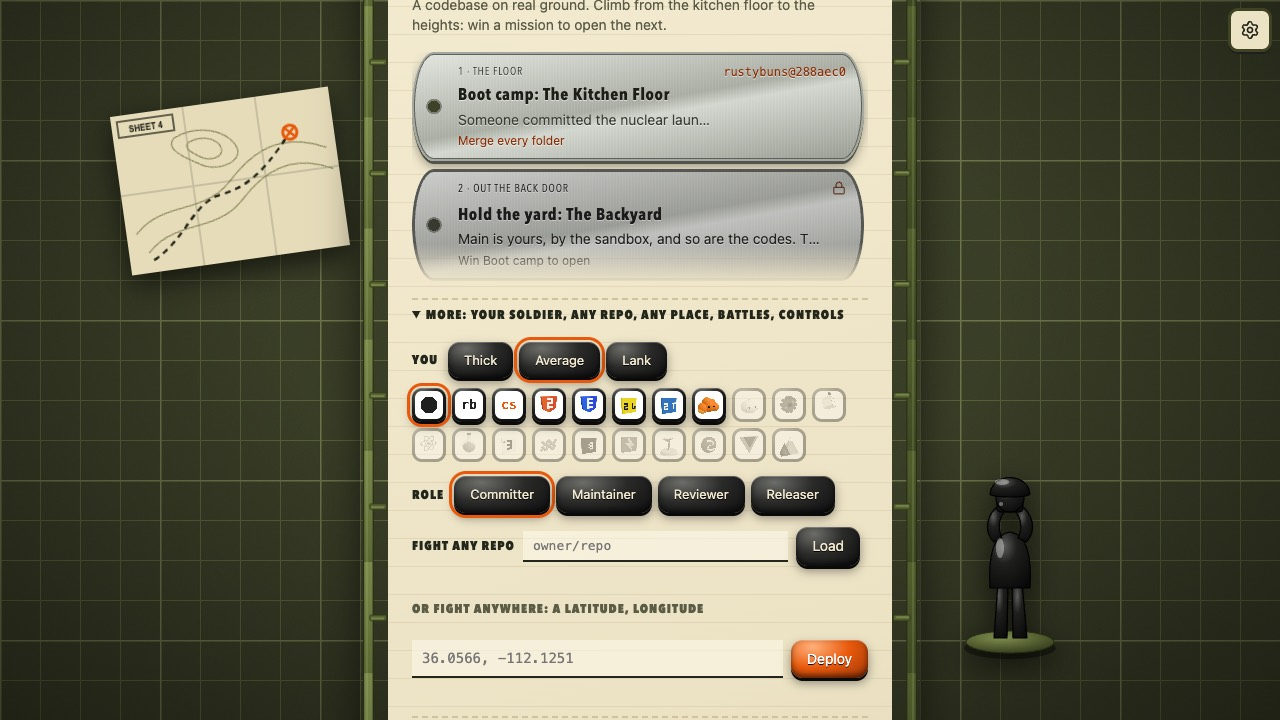
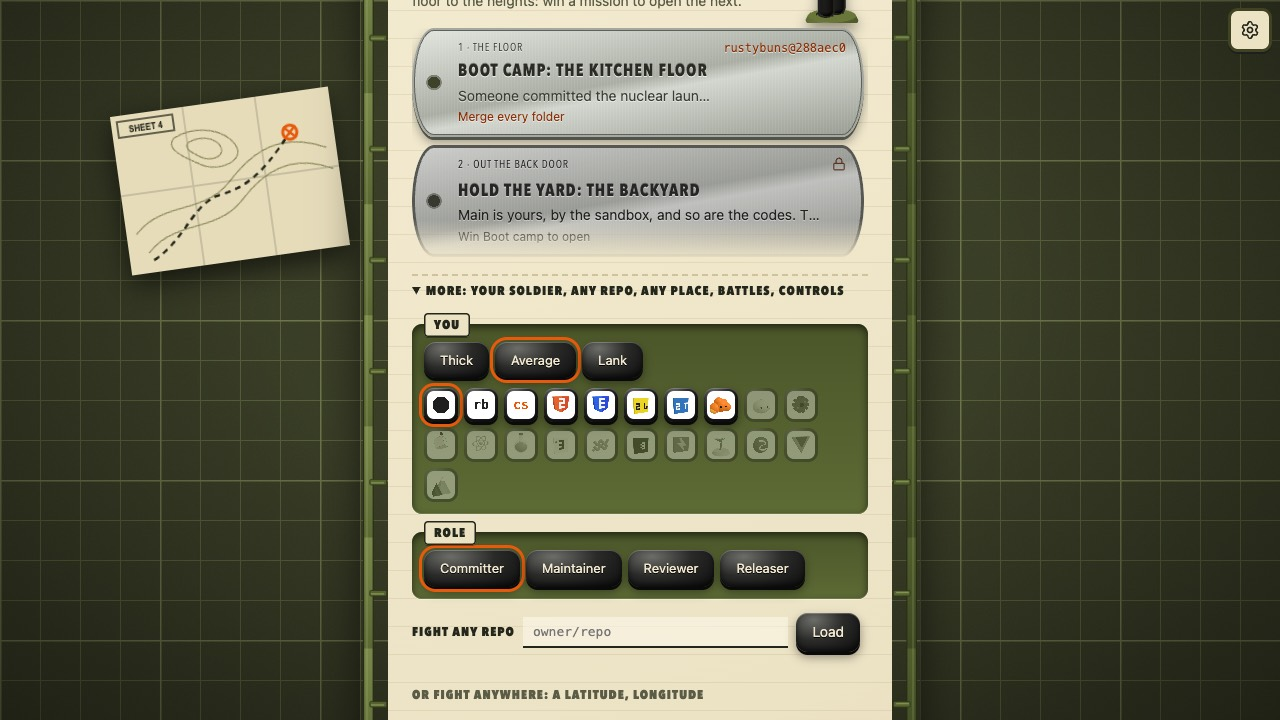
Git Recon: your own clay soldier on the menu at every size, embossed dog tags, the loadout as a parts tray (menus round 3)
- src/ui/portrait.ts: the menu stands your soldier in the page's corner, built by the game's own figure.ts in your
  build and head, on a moulded olive base, turning slowly. It renders only while the menu shows and redraws when you
  pick a build or head. It replaces the drawn SVG figure (soldier.svg is gone), and it shows on phone and tablet too.
- Dog-tag names are stamped capitals, pressed into the steel.
- The loadout rows are recessed olive bins in a parts tray, each with a stamped label tab.
- Shots: r2-* is round 2's result, now-* is this round.

Part of #3560

Changed region(s): [[0.3125, 0.0, 0.6875, 0.9778], [0.75, 0.6417, 0.8438, 0.9167]]

diff --git a/apps/git-recon/src/ui/portrait.ts b/apps/git-recon/src/ui/portrait.ts
@@ -1,0 +1,65 @@
+// Your soldier on the menu: the same clay figure the battlefield draws (figure.ts, through a one-figure Crowd), in
+// your build and head, standing on a moulded olive base and turning slowly, like a toy on the box's window. It only
+// renders while the menu shows, and redraws when you pick another build or head.
+import * as THREE from "three";
+import { buildFigure, createCrowd, pose, setHead, type BuildId, type Figure } from "./figure.ts";
+import { buildHead, type HeadDef } from "./heads.ts";
+
+const INK = 0x1f1f1f, GLOSS = 0.22, TURN = 0.45; // rad/s
+
+export function mountPortrait(canvas: HTMLCanvasElement, showing: () => boolean) {
+  const r = new THREE.WebGLRenderer({ canvas, antialias: true, alpha: true });
+  r.setPixelRatio(Math.min(2, devicePixelRatio || 1));
+  const scene = new THREE.Scene();
+  scene.add(new THREE.HemisphereLight(0xfff6dc, 0x3d4229, 1.6));
+  const key = new THREE.DirectionalLight(0xffffff, 2.4);
+  key.position.set(-2, 4, 3);
+  scene.add(key);
+  const rim = new THREE.DirectionalLight(0xd9e6a8, 1.2);
+  rim.position.set(2, 2, -3);
+  scene.add(rim);
+  // The moulded base: a squat olive disc with a bevelled lip.
+  const base = new THREE.Mesh(new THREE.CylinderGeometry(0.42, 0.46, 0.08, 40), new THREE.MeshStandardMaterial({ color: 0x5d6b35, roughness: 0.45 }));
+  base.position.y = -0.04;
+  scene.add(base);
+  const cam = new THREE.PerspectiveCamera(26, 1, 0.1, 30);
+  cam.position.set(0, 1.25, 4.4);
+  cam.lookAt(0, 0.9, 0);
+  const crowd = createCrowd();
+  scene.add(crowd.root);
+  let fig: Figure | null = null, last = 0, raf = 0;
+
+  function size() {
+    const w = canvas.clientWidth, h = canvas.clientHeight;
+    if (!w || !h) return false;
+    if (canvas.width !== Math.round(w * r.getPixelRatio()) || canvas.height !== Math.round(h * r.getPixelRatio())) {
+      r.setSize(w, h, false);
+      cam.aspect = w / h;
+      cam.updateProjectionMatrix();
+    }
+    return true;
+  }
+  function frame(t: number) {
+    raf = requestAnimationFrame(frame);
+    if (!fig || !showing() || !size()) { last = t; return; }
+    const dt = Math.min(0.1, (t - (last || t)) / 1000);
+    last = t;
+    fig.root.rotation.y += dt * TURN;
+    pose(fig, { pose: "stand", speed: 0, dt, roll: 0, pitch: 0 });
+    crowd.update();
+    r.render(scene, cam);
+  }
+  return {
+    /** Stand this build, with this head, on the base. */
+    show(build: BuildId, head: HeadDef) {
+      const yaw = fig?.root.rotation.y ?? -0.5;
+      if (fig) scene.remove(fig.root), crowd.remove(fig);
+      fig = buildFigure(INK, GLOSS, build);
+      setHead(fig, buildHead(head, fig.root.userData.mat, fig.head.userData.size));
+      fig.root.rotation.y = yaw;
+      scene.add(fig.root);
+      crowd.add(fig);
+      if (!raf) raf = requestAnimationFrame(frame);
+    },
+  };
+}

diff --git a/apps/git-recon/src/ui/main.ts b/apps/git-recon/src/ui/main.ts
@@ -36,6 +36,7 @@ import { DEFAULTS, mountControls, volumeOf } from "@rustybuns/game-controls";
 import { addCommands } from "@rustybuns/util/commands";
 import { mountPalette } from "@rustybuns/util/palette";
 import { drawTally } from "./tally.ts";
+import { mountPortrait } from "./portrait.ts";
 
 const $ = <T extends HTMLElement = HTMLElement>(id: string) => document.getElementById(id) as T;
 const canvas = $<HTMLCanvasElement>("view");
@@ -216,13 +217,16 @@ function radios<T>(box: HTMLElement, items: T[], label: (t: T) => string, fill: 
   }
   draw();
 }
-radios($("builds"), Object.keys(BUILDS) as BuildId[], (id) => BUILDS[id].name, (b, id) => (b.textContent = BUILDS[id].name), (id) => id === me.build, (id) => (me.build = id, save("build", id)));
+/** Your soldier on the menu, in the build and head you've picked. */
+const portrait = mountPortrait($("portrait") as HTMLCanvasElement, () => !$("menu").hidden);
+portrait.show(me.build, me.head);
+radios($("builds"), Object.keys(BUILDS) as BuildId[], (id) => BUILDS[id].name, (b, id) => (b.textContent = BUILDS[id].name), (id) => id === me.build, (id) => (me.build = id, save("build", id), portrait.show(me.build, me.head)));
 /** The heads, toy ones greyed out until you've won enough levels; redrawn after a win. */
 function showHeads() {
   const box = $("heads");
   box.innerHTML = "";
   radios(box, HEADS, (h) => isOpen(h, wins.length) ? (h.nod ? `${h.name}: a nod to ${h.nod}` : h.name) : `Locked: win ${h.wins! - wins.length} more ${h.wins! - wins.length === 1 ? "level" : "levels"}`,
-    (b, h) => (b.append(headCanvas(h)), (b.disabled = !isOpen(h, wins.length))), (h) => h.id === me.head.id, (h) => (me.head = h, save("head", h.id)));
+    (b, h) => (b.append(headCanvas(h)), (b.disabled = !isOpen(h, wins.length))), (h) => h.id === me.head.id, (h) => (me.head = h, save("head", h.id), portrait.show(me.build, me.head)));
 }
 showHeads();
 

diff --git a/apps/git-recon/src/ui/styles.css b/apps/git-recon/src/ui/styles.css
@@ -395,3 +395,23 @@ html .ui-house {
      the menu would show the white play view behind it instead.) */
   .menu::before { content: ""; position: fixed; inset: 0 0 auto 0; height: 64px; z-index: 2; pointer-events: none; background: linear-gradient(#2b301c 55%, #2b301c00); }
 }
+
+/* Round 3 (#3560): your own soldier, rendered from the game's clay figure, stands in the page's corner at every
+   screen size (src/ui/portrait.ts); it replaces the drawn figure on the table. */
+.menu .portrait { position: absolute; top: 34px; right: 14px; width: 92px; height: 118px; filter: drop-shadow(0 6px 6px #0006); pointer-events: none; }
+.menu .kicker, .menu h1, .menu .lede { margin-right: 96px; }
+@media (min-width: 1000px) and (min-height: 560px) { .menu::after { display: none; } }
+@media (max-width: 560px) {
+  .menu .portrait { top: 4px; right: 6px; width: 58px; height: 76px; }
+  .menu h1 { margin-bottom: 18px; }
+  .menu .kicker, .menu h1 { margin-right: 60px; }
+  .menu h1 { font-size: 28px; gap: 8px; }
+  .menu h1::before { width: 28px; height: 28px; }
+}
+/* Dog-tag names are stamped into the steel: capitals, pressed in (a dark edge above, a light one below). */
+.menu .level b { text-transform: uppercase; letter-spacing: 0.06em; color: #2a2c24; text-shadow: 0 1px 0 #ffffffb0, 0 -1px 0 #00000059; }
+/* The loadout is a parts tray: each row a recessed bin moulded in olive plastic, its label a stamped tab. */
+.menu .more .look { position: relative; margin: 18px 0 14px; padding: 18px 12px 12px; border-radius: 10px;
+  background: linear-gradient(#4b5629, #5d6b35); box-shadow: inset 0 3px 8px #0009, inset 0 -1px 0 #a9ba7266, 0 1px 0 #fff6; }
+.menu .more .look .look-label { position: absolute; top: -11px; left: 12px; padding: 3px 10px; border-radius: 4px;
+  background: #ece2c4; color: var(--tb-ink); box-shadow: 0 1px 0 #0005, inset 0 0 0 1.5px var(--tb-ink); }

diff --git a/apps/git-recon/index.html b/apps/git-recon/index.html
@@ -13,6 +13,7 @@
 
     <main id="menu" class="menu">
       <div class="card">
+        <canvas id="portrait" class="portrait" aria-hidden="true"></canvas>
         <p class="kicker">A Rusty Buns example</p>
         <h1>Git Recon</h1>
         <p class="lede">A codebase on real ground. Climb from the kitchen floor to the heights: win a mission to open the next.</p>
